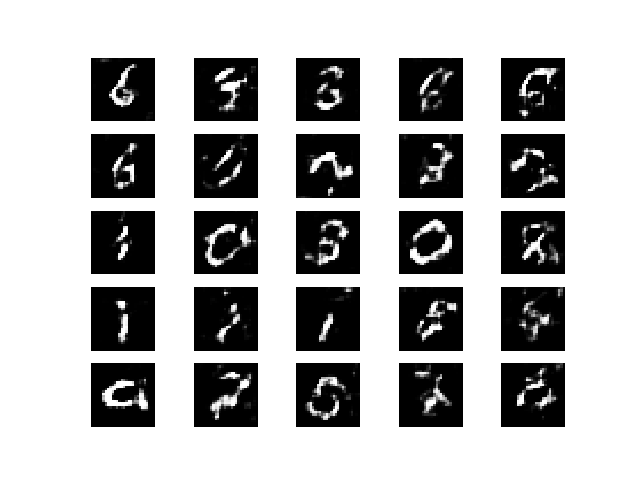
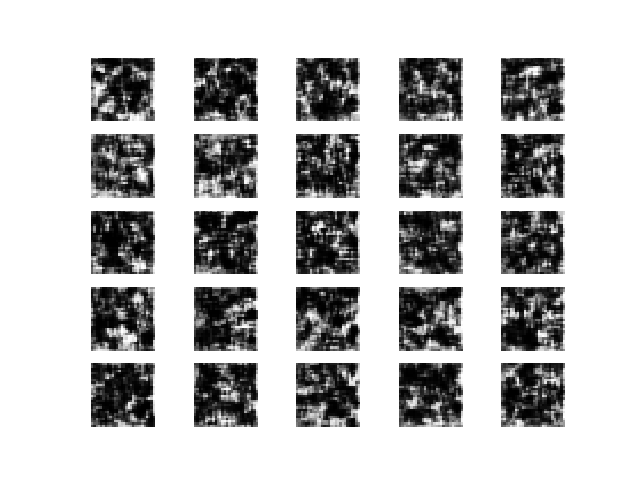
add dcgan

diff --git a/GAN/dcgan/dcgan.py b/GAN/dcgan/dcgan.py
@@ -48,7 +48,7 @@ class GAN():
 
         noise_shape = (self.z_dim,)
         model = Sequential()
-        model.add(Dense(input_dim = self.z_dim, output_dim=1024))
+        model.add(Dense(1024, input_shape=noise_shape))
         model.add(BatchNormalization())
         model.add(Activation('relu'))
         model.add(Dense(128*7*7))
@@ -71,7 +71,7 @@ class GAN():
         
         model = Sequential()
         model.add(Convolution2D(64,5,5, subsample=(2,2),\
-                  border_mode='same', input_shape=(28,28,1)))
+                  border_mode='same', input_shape=img_shape))
         model.add(LeakyReLU(0.2))
         model.add(Convolution2D(128,5,5,subsample=(2,2)))
         model.add(LeakyReLU(0.2))
@@ -80,6 +80,7 @@ class GAN():
         model.add(LeakyReLU(0.2))
         model.add(Dropout(0.5))
         model.add(Dense(1))
+        model.add(Activation('sigmoid'))   
         return model
     
     def build_combined1(self):
